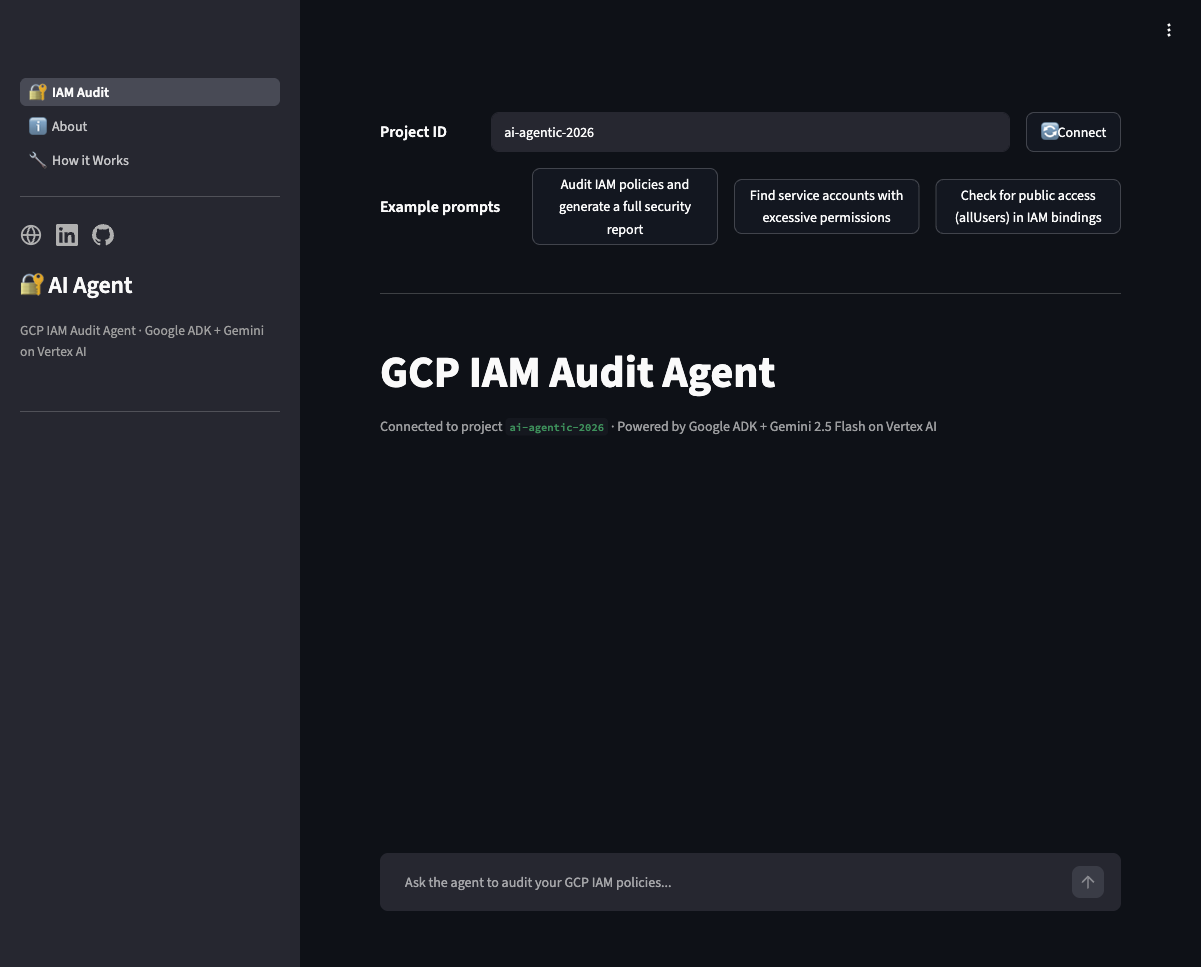
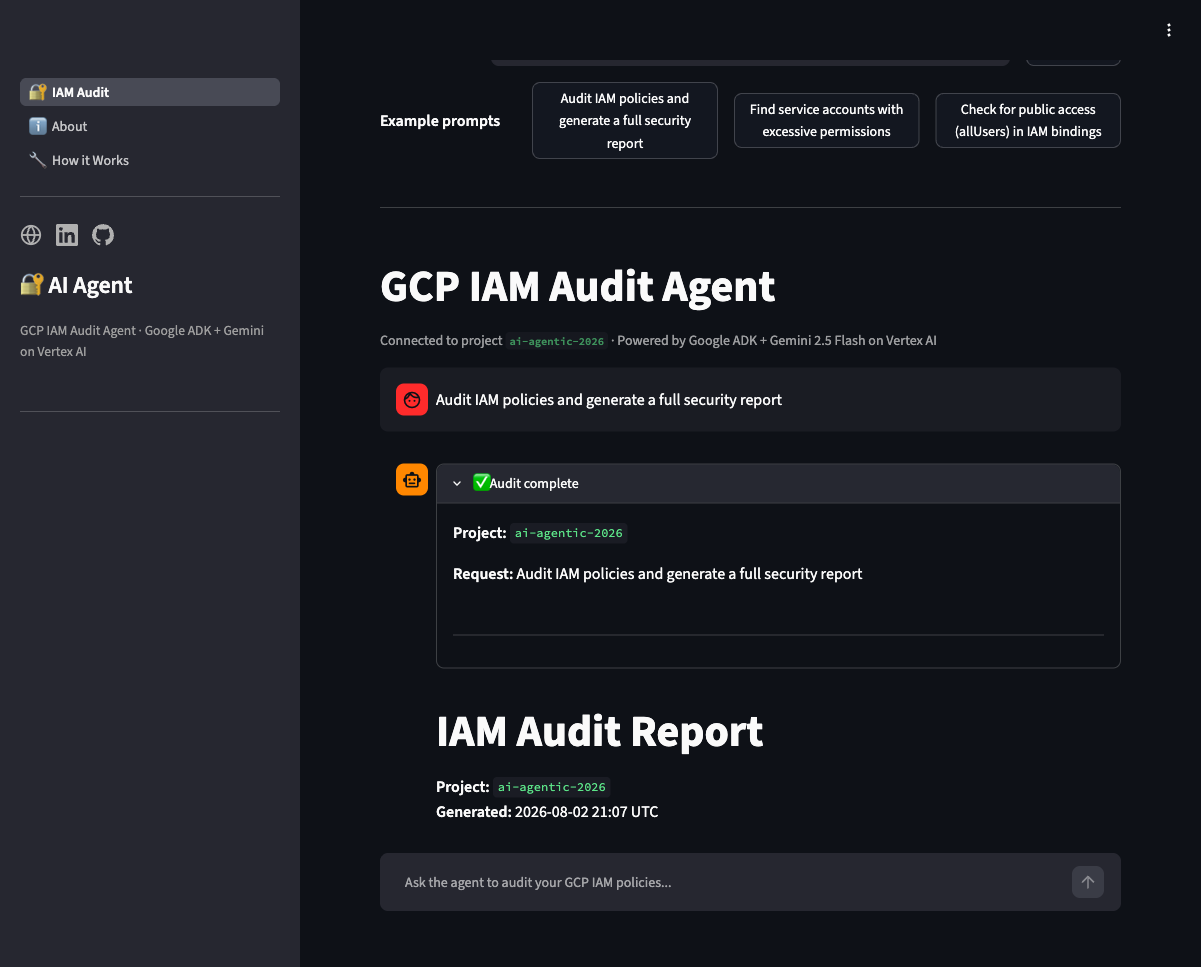
Update site screenshots with detailed IAM audit results and README

diff --git a/README.md b/README.md
@@ -62,13 +62,23 @@ Infrastructure: Cloud Run · Artifact Registry · Terraform · GitHub Actions WI
 
 ## Screenshots
 
-### Chat UI with Reasoning Trace
+### Chat UI — IAM Audit Report
 
-![Streamlit UI](streamlit-ui.png)
+![IAM Audit Chat](screenshots/home.png)
 
-### Audit Report Output
+*Real-time IAM audit with Gemini-generated report showing violations and recommendations*
 
-![Audit Result](streamlit-result.png)
+### About Page
+
+![About](screenshots/about.png)
+
+*Tech stack, project overview, and why this exists*
+
+### How it Works
+
+![How it Works](screenshots/how_it_works.png)
+
+*Architecture overview: Supervisor Agent → IAM Audit sub-agent → GCP APIs*
 
 ---
 
